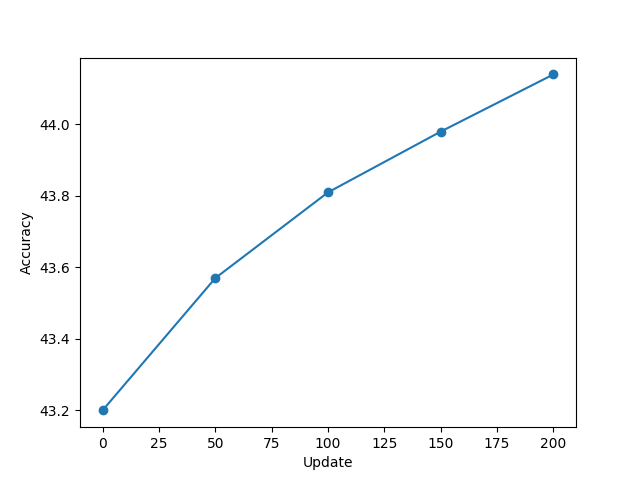
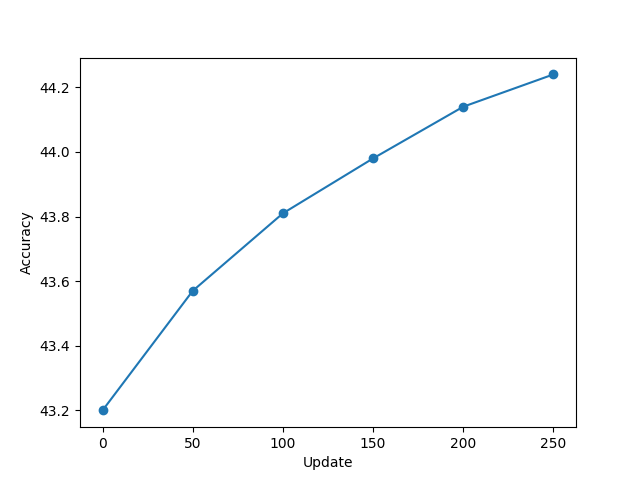
plots for lr=0.1

diff --git a/QuantumEdgeNetwork.py b/QuantumEdgeNetwork.py
@@ -197,7 +197,7 @@ if __name__ == '__main__':
 	train_data, valid_data = get_datasets(input_dir, n_train, n_valid)
 	loss_log 	  = np.zeros(n_files*n_epoch)
 	theta_log         = np.zeros((n_files*n_epoch,11))
-	valid_accuracy    = np.zeros(int((n_valid // TEST_every )*n_epoch) + 2)
+	valid_accuracy    = np.zeros(int((n_train // TEST_every )*n_epoch) + 2)
 	valid_accuracy[0] = test_validation(valid_data,theta_learn,n_valid)
 	print('Training is starting!')
 	for epoch in range(n_epoch): 
